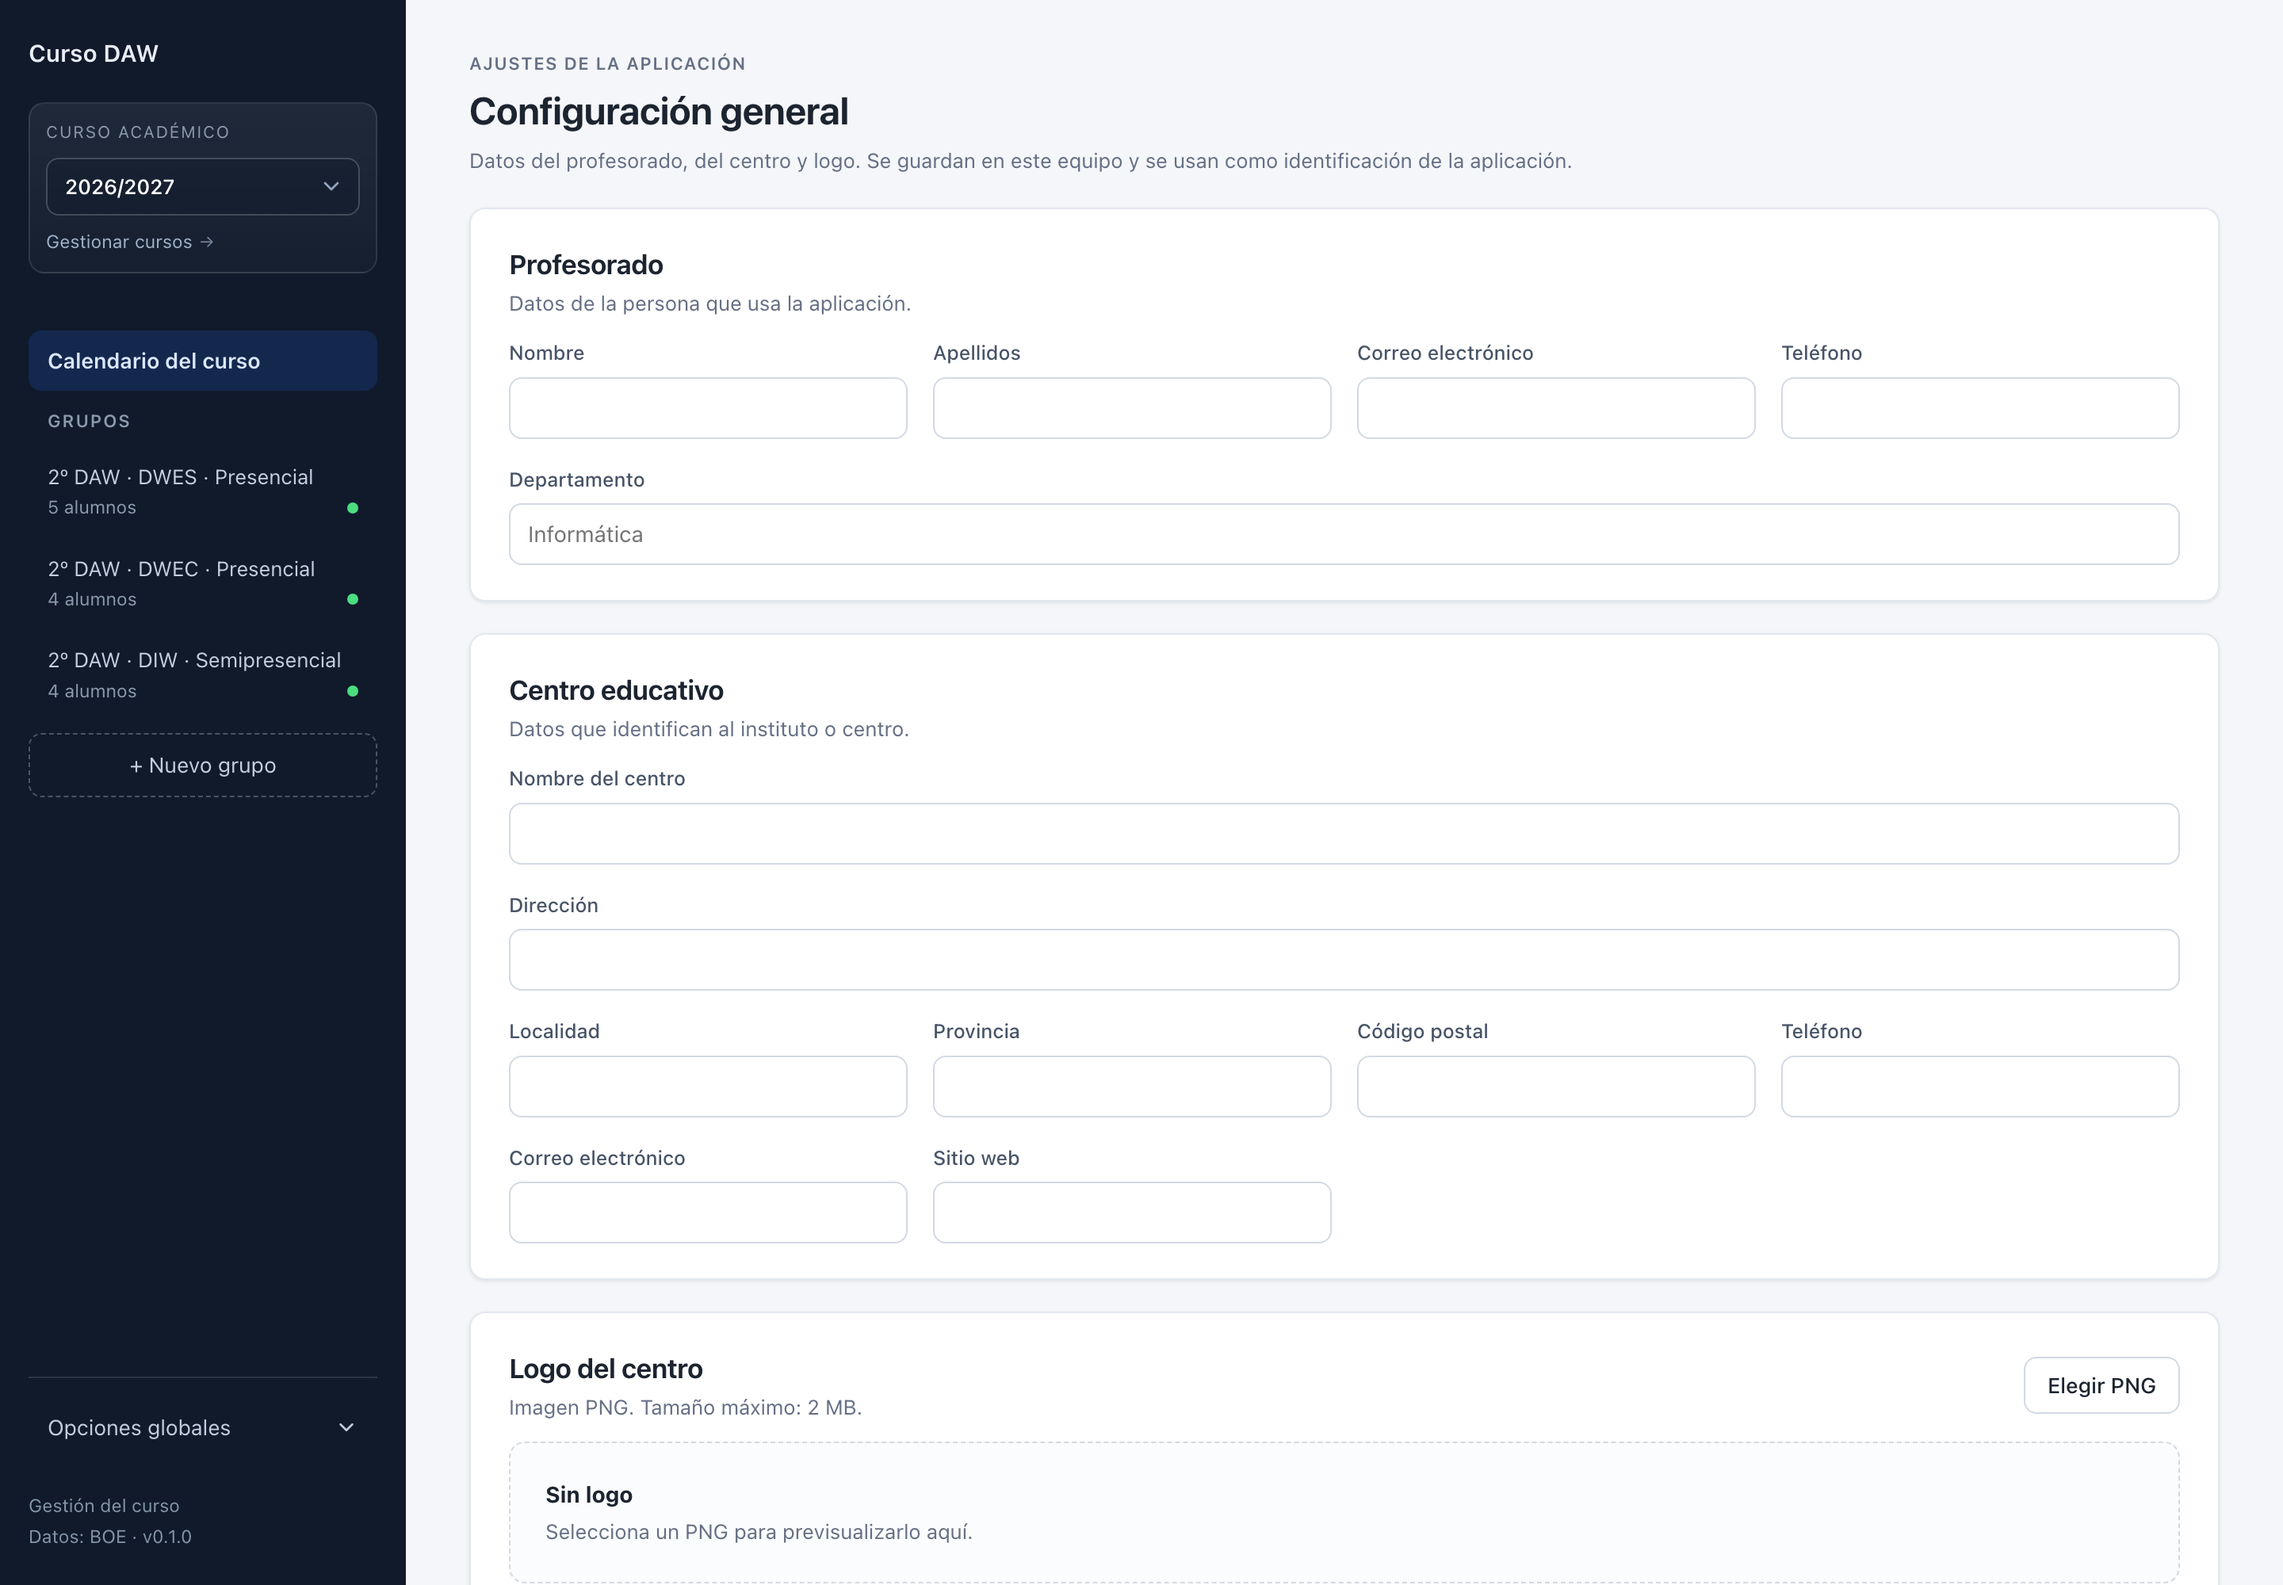
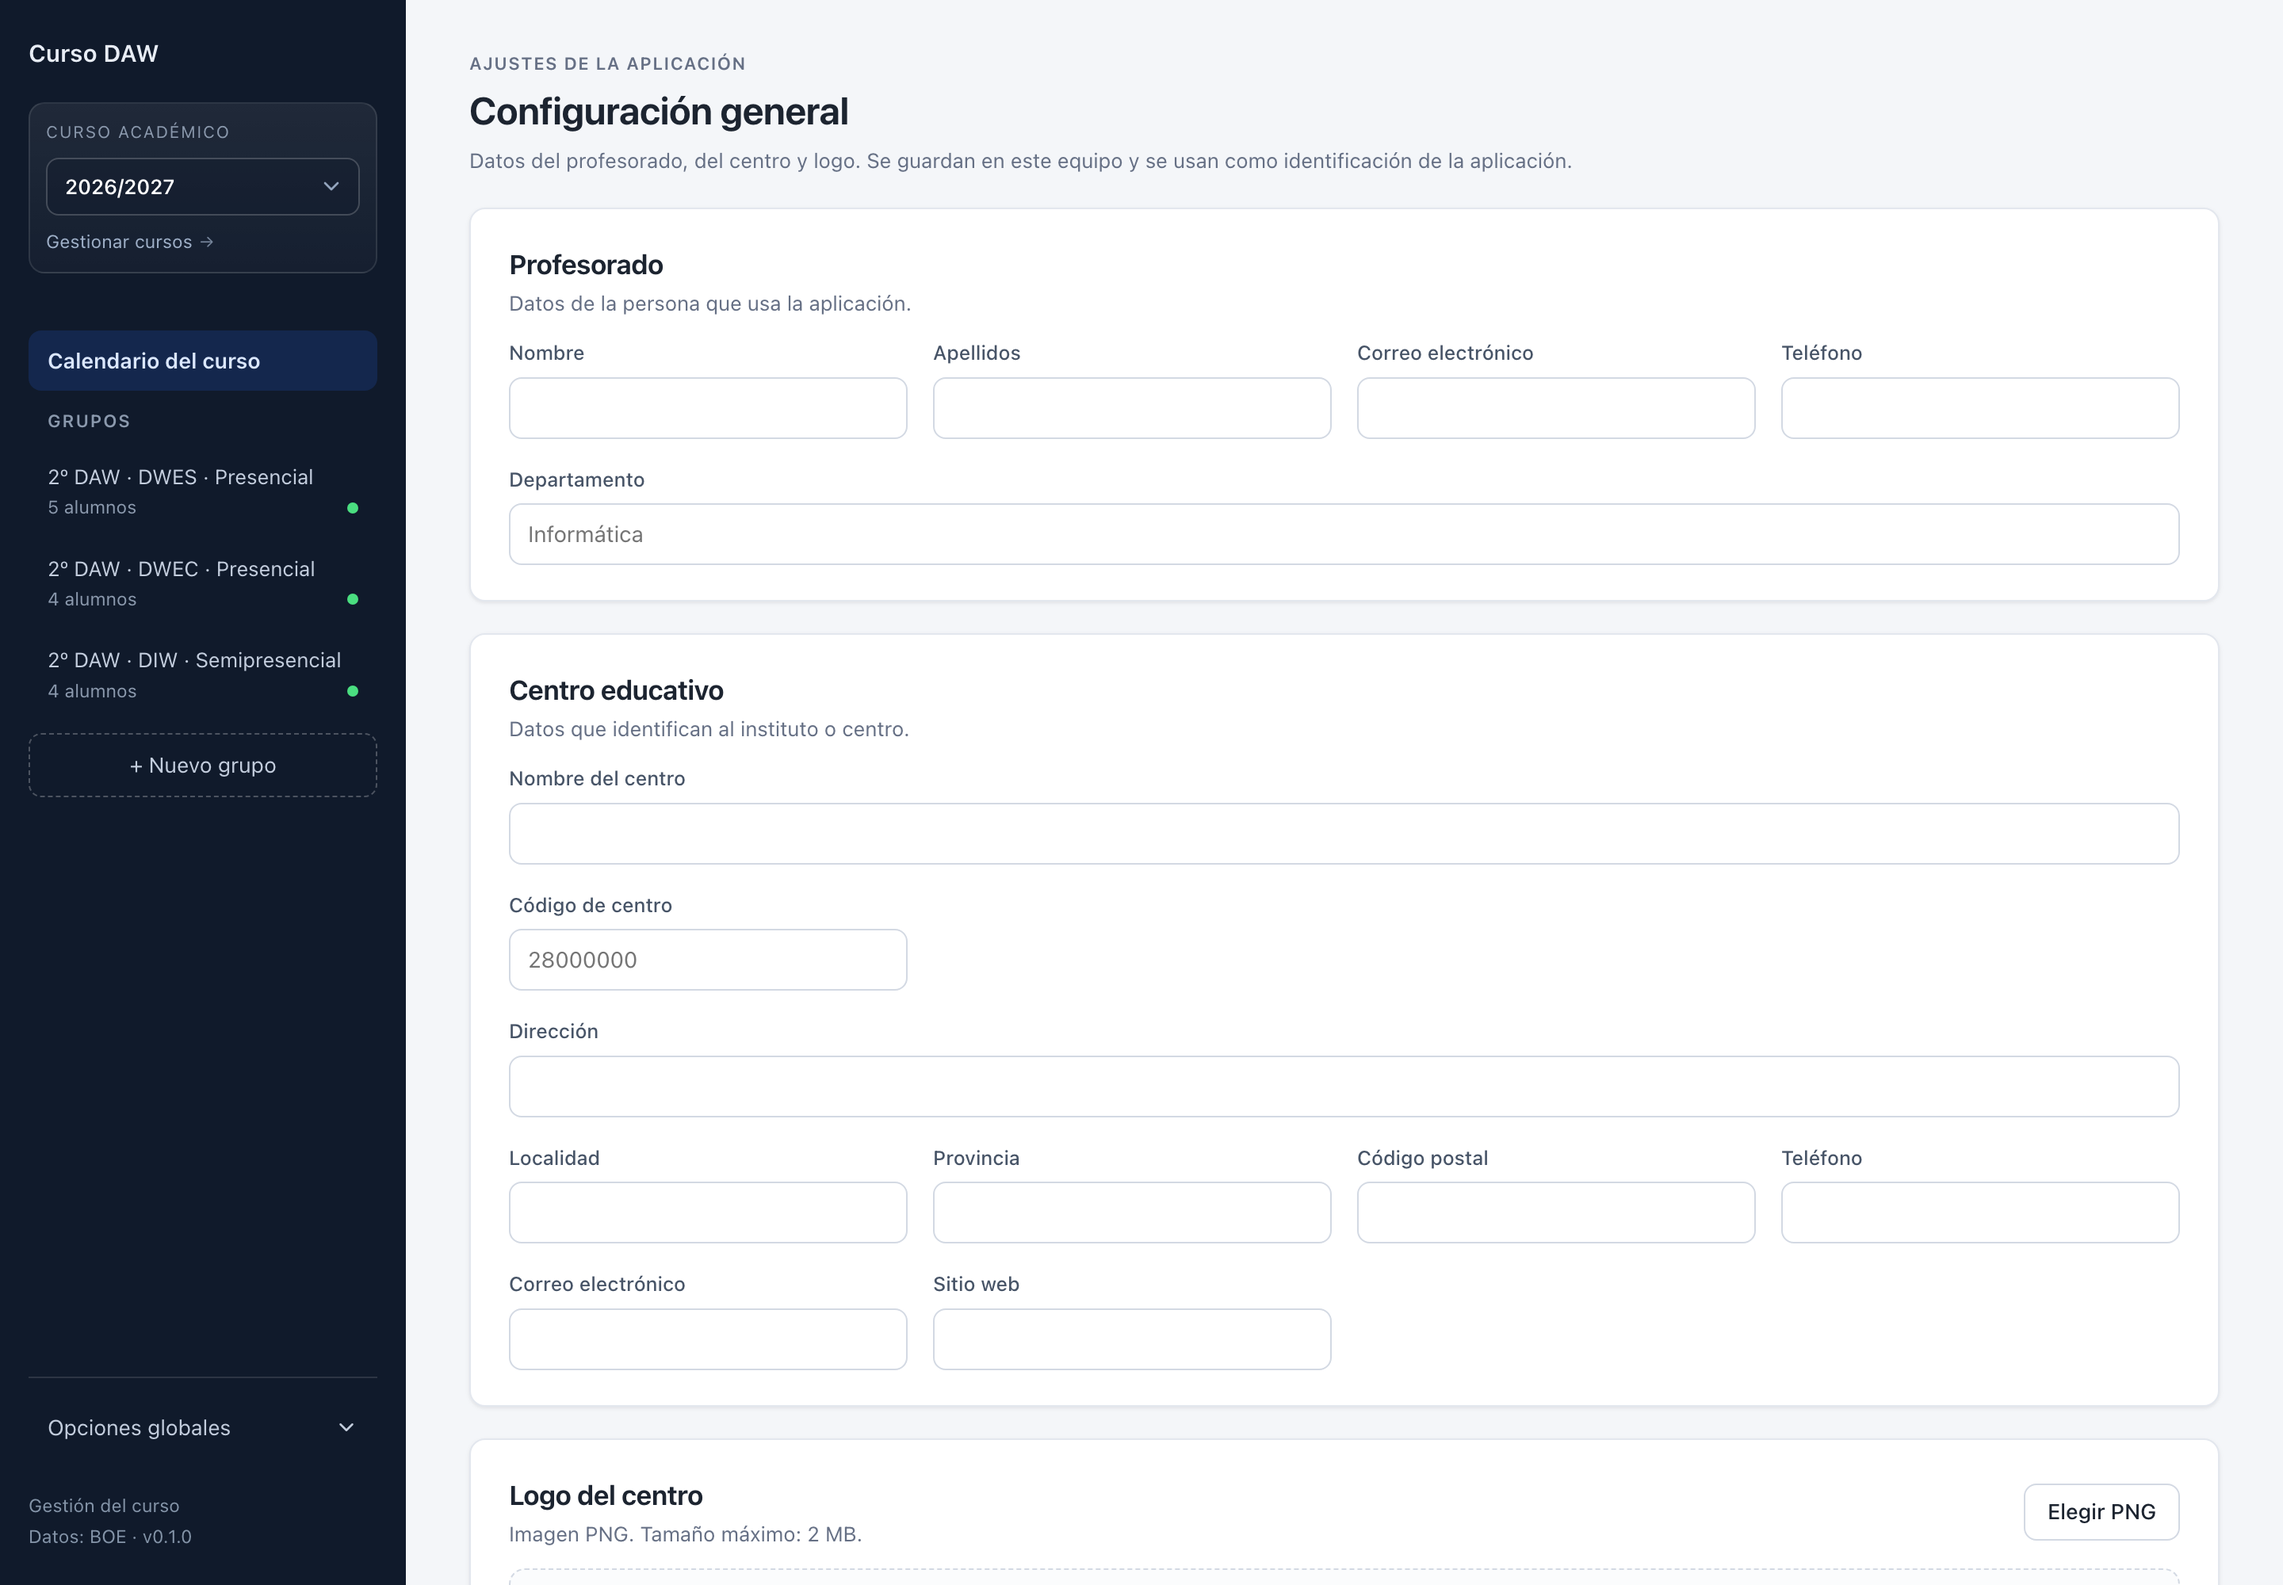
feat: codigo de centro y opciones globales priorizadas

diff --git a/src/renderer/src/App.vue b/src/renderer/src/App.vue
@@ -242,6 +242,10 @@ async function importarNormativa(evento: Event): Promise<void> {
           </svg>
         </summary>
         <div class="menu-global__panel">
+          <div class="menu-global__titulo">Configuración</div>
+          <RouterLink to="/configuracion" class="menu__enlace" @click="cerrarMenuGlobal">
+            Configuración general
+          </RouterLink>
           <RouterLink to="/grupos" class="menu__enlace" @click="cerrarMenuGlobal">
             Gestionar grupos
           </RouterLink>
@@ -251,15 +255,18 @@ async function importarNormativa(evento: Event): Promise<void> {
           <RouterLink to="/plantillas" class="menu__enlace" @click="cerrarMenuGlobal">
             Plantillas
           </RouterLink>
+
+          <div class="menu-global__titulo">Trabajo diario</div>
           <RouterLink to="/faltas" class="menu__enlace" @click="cerrarMenuGlobal">
             Control de faltas
           </RouterLink>
+
+          <div class="menu-global__titulo">Sistema</div>
           <RouterLink to="/backups" class="menu__enlace" @click="cerrarMenuGlobal">
             Copias de seguridad
           </RouterLink>
-          <RouterLink to="/configuracion" class="menu__enlace" @click="cerrarMenuGlobal">
-            Configuración general
-          </RouterLink>
+
+          <div class="menu-global__titulo">Ayuda</div>
           <RouterLink to="/guia" class="menu__enlace" @click="cerrarMenuGlobal">
             Guía de uso
           </RouterLink>
@@ -274,7 +281,9 @@ async function importarNormativa(evento: Event): Promise<void> {
           >
             {{ importandoNormativa ? 'Importando normativa…' : 'Importar normativa' }}
           </button>
+
           <template v-if="puedeDemo">
+            <div class="menu-global__titulo">Previsualización</div>
             <button
               class="menu__enlace menu__enlace--boton"
               type="button"

diff --git a/src/renderer/src/views/ConfiguracionView.vue b/src/renderer/src/views/ConfiguracionView.vue
@@ -152,6 +152,15 @@ async function guardar(): Promise<void> {
             <label for="centro-nombre">Nombre del centro</label>
             <input id="centro-nombre" v-model="configuracion.centro.nombre" type="text" />
           </div>
+          <div class="campo">
+            <label for="centro-codigo">Código de centro</label>
+            <input
+              id="centro-codigo"
+              v-model="configuracion.centro.codigoCentro"
+              type="text"
+              placeholder="28000000"
+            />
+          </div>
           <div class="campo campo--ancho">
             <label for="centro-direccion">Dirección</label>
             <input id="centro-direccion" v-model="configuracion.centro.direccion" type="text" />

diff --git a/src/renderer/src/content/guia.ts b/src/renderer/src/content/guia.ts
@@ -127,7 +127,7 @@ export const seccionesGuia: SeccionGuia[] = [
       {
         titulo: 'Centro educativo',
         detalle:
-          'Nombre, dirección, localidad, provincia, código postal, teléfono, correo y web del instituto. Se guardan para la identificación de la aplicación.'
+          'Nombre, código de centro, dirección, localidad, provincia, código postal, teléfono, correo y web del instituto. Se guardan para la identificación de la aplicación.'
       },
       {
         titulo: 'Logo PNG',

diff --git a/src/shared/tipos.ts b/src/shared/tipos.ts
@@ -1169,6 +1169,7 @@ export interface ConfiguracionGeneral {
   }
   centro: {
     nombre: string
+    codigoCentro: string
     direccion: string
     localidad: string
     provincia: string
@@ -1185,6 +1186,7 @@ export const CONFIGURACION_GENERAL_POR_DEFECTO: ConfiguracionGeneral = {
   profesor: { nombre: '', apellidos: '', email: '', telefono: '', departamento: '' },
   centro: {
     nombre: '',
+    codigoCentro: '',
     direccion: '',
     localidad: '',
     provincia: '',

diff --git a/src/renderer/src/assets/main.css b/src/renderer/src/assets/main.css
@@ -8950,3 +8950,16 @@ a:focus-visible {
   padding-top: 14px;
   border-top: 1px solid var(--borde);
 }
+
+.menu-global__titulo {
+  margin: 8px 12px 2px;
+  color: #8b99ad;
+  font-size: 9.5px;
+  font-weight: 650;
+  letter-spacing: 0.08em;
+  text-transform: uppercase;
+}
+
+.menu-global__titulo:first-child {
+  margin-top: 2px;
+}

diff --git a/tests/configuracion-general.test.ts b/tests/configuracion-general.test.ts
@@ -28,6 +28,7 @@ describe('configuración general', () => {
       },
       centro: {
         nombre: 'IES Ejemplo',
+        codigoCentro: '28000000',
         direccion: 'Calle Mayor 1',
         localidad: 'Madrid',
         provincia: 'Madrid',

diff --git a/RESUMEN-ITERACIONES.md b/RESUMEN-ITERACIONES.md
@@ -191,7 +191,7 @@ Vite/electron-vite + Vitest**.
 ### 2.10. Configuración general
 
 - Datos del profesorado: nombre, apellidos, correo, teléfono y departamento.
-- Datos del centro: nombre, dirección, localidad, provincia, código postal, teléfono, correo y web.
+- Datos del centro: nombre, código de centro, dirección, localidad, provincia, código postal, teléfono, correo y web.
 - Logo del centro en PNG, con vista previa y límite de 2 MB.
 - Guardado local en la tabla `config`; no se envía a ningún servicio externo.
 

diff --git a/README.md b/README.md
@@ -105,7 +105,7 @@ Aplicación funcional en desarrollo activo. Verificación actual:
 - **Menú de opciones globales** en la barra lateral (cursos, plantillas, copias, normativa y
   datos de prueba).
 - **Configuración general**:
-  - Datos del profesorado y del centro educativo.
+  - Datos del profesorado y del centro educativo, incluido el código de centro.
   - Logo del centro en PNG con vista previa y límite de tamaño.
   - Guardado local, sin servicios externos.
 - **Interfaz homogénea**:
